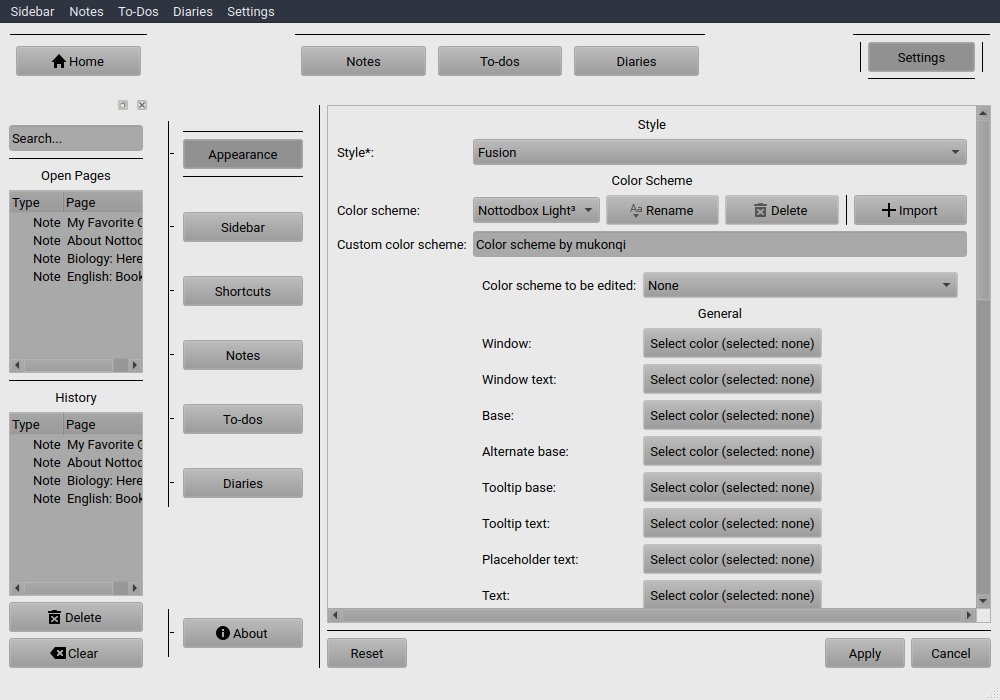
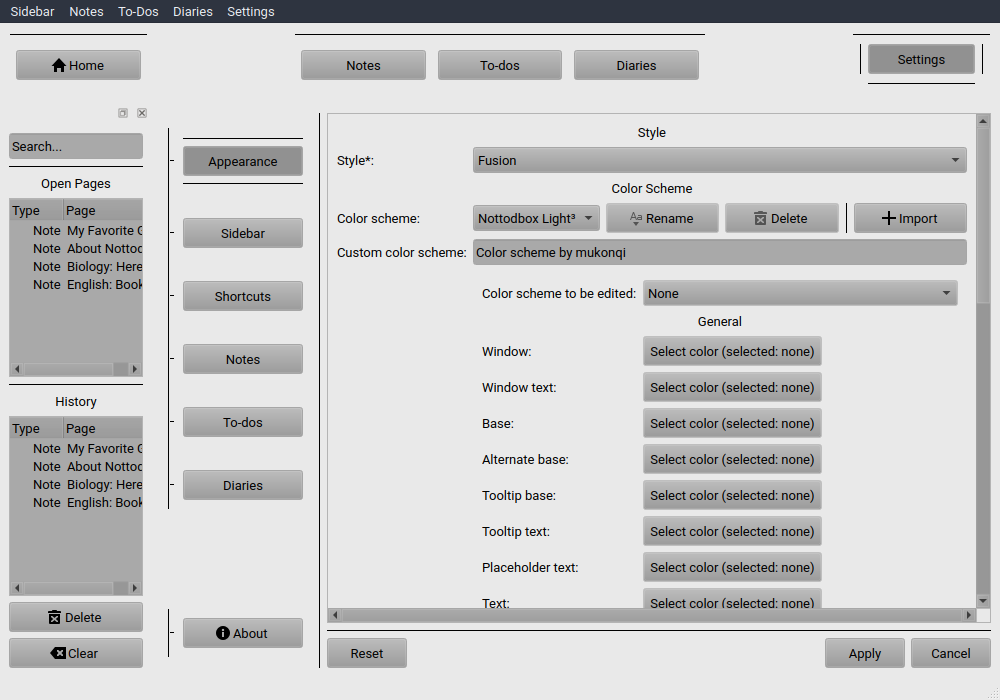
Some fixes for screenshot helper and resize main window's tab bar's height

diff --git a/nottodbox/mainwindow.py b/nottodbox/mainwindow.py
@@ -37,7 +37,7 @@ class MainWindow(QMainWindow):
         
         self.tabbar = QDockWidget(self)
         self.tabbar.setObjectName("TabBar")
-        self.tabbar.setFixedHeight(self.tabbar.height() * 2.25)
+        self.tabbar.setFixedHeight(self.tabbar.height() * 2.50)
         self.tabbar.setFeatures(QDockWidget.DockWidgetFeature.NoDockWidgetFeatures)
         self.tabbar.setAllowedAreas(Qt.DockWidgetArea.TopDockWidgetArea)
         self.tabbar.setTitleBarWidget(QWidget(self.tabbar))

diff --git a/.github/scripts/screenshot.py b/.github/scripts/screenshot.py
@@ -72,6 +72,7 @@ list(mainwindow.settings.tabwidget.pages.keys())[0].widget().color_schemes_combo
 list(mainwindow.settings.tabwidget.pages.keys())[0].widget().loadPalette()
 application.exec()
 
+mainwindow.tabwidget.setCurrentPage(0)
 mainwindow.home.todos.expandAll()
 mainwindow.home.notes.expandAll()
 mainwindow.grab().save(os.path.join(os.path.dirname(os.path.dirname(__file__)), "images", "home.png"))
